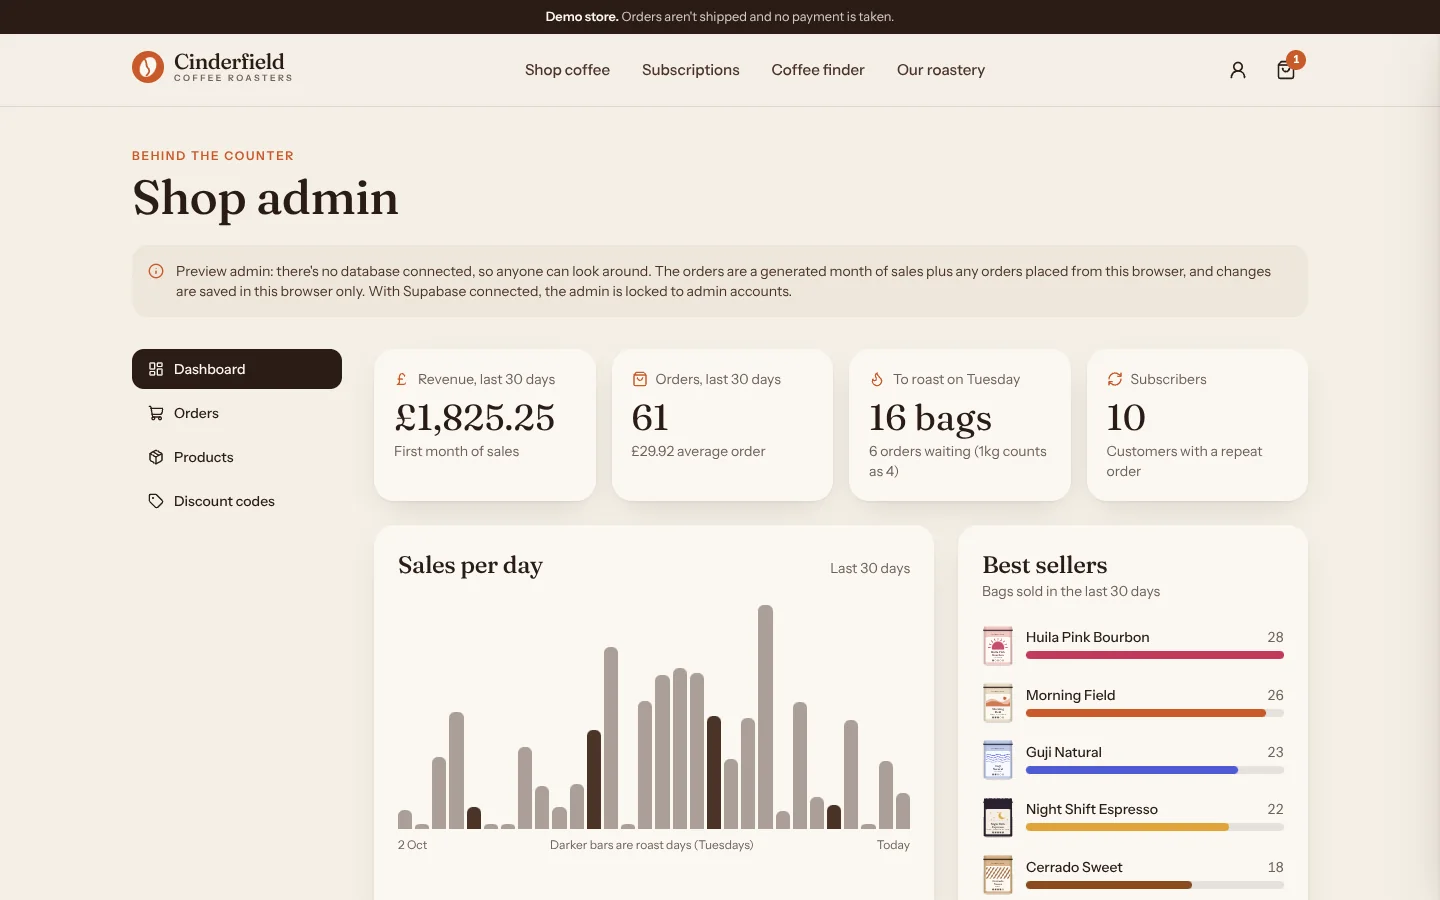
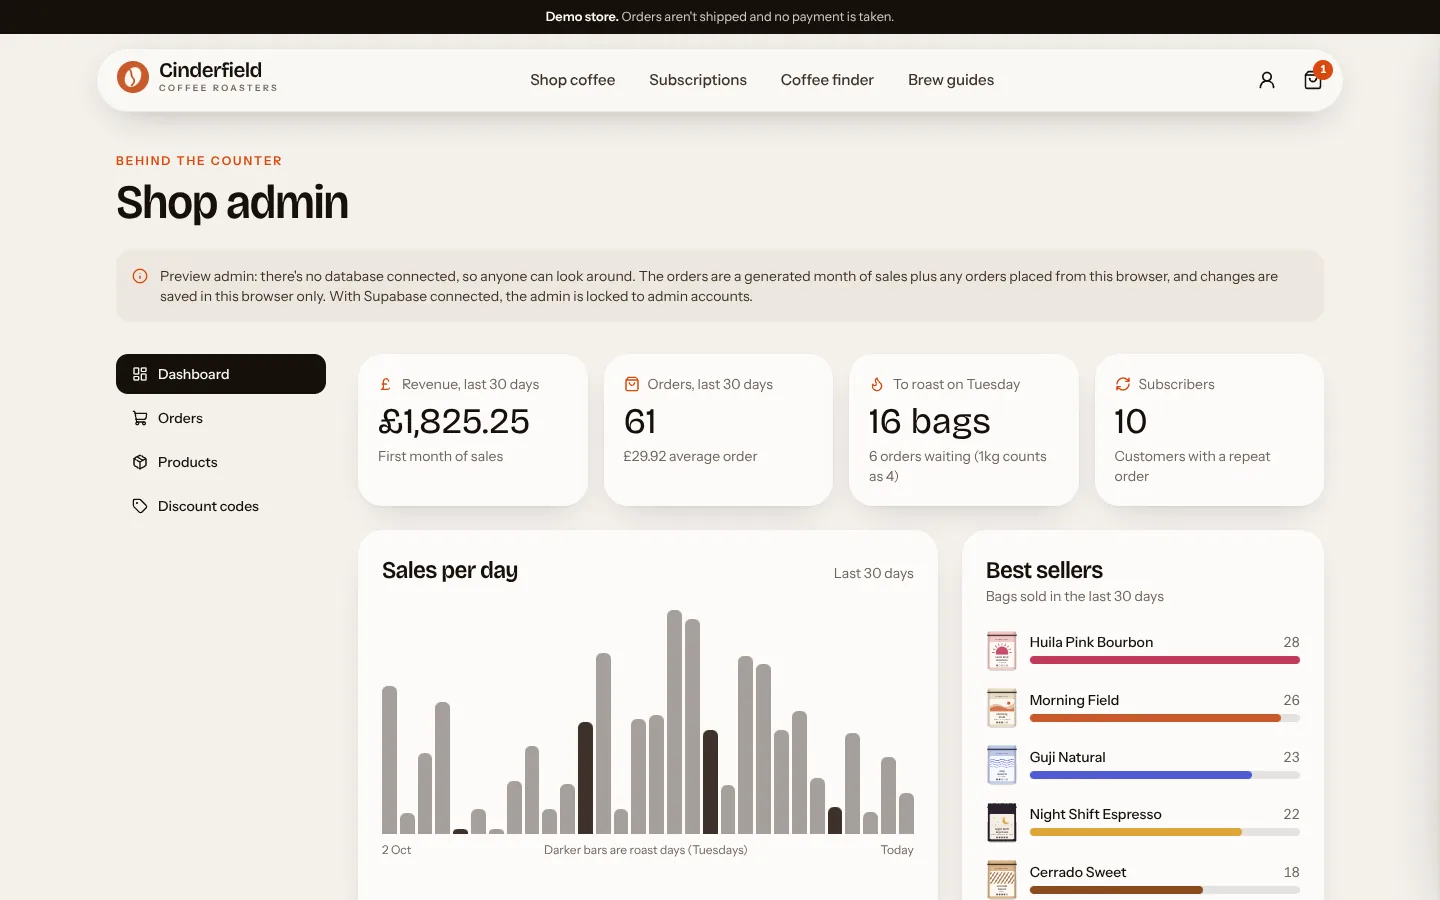
Update the README, screenshots and social preview

diff --git a/README.md b/README.md
@@ -13,13 +13,16 @@ A complete online shop for a small-batch coffee roaster: catalogue, bag, checkou
 **For customers**
 
 - Shop with search, filters (roast, type, flavour) and sorting. Filters live in the URL, so a filtered page can be shared or bookmarked.
-- Product pages with tasting notes, origin details, a brew recipe for that coffee, reviews and structured data for search engines.
+- A 3D home page: the week's coffees as bags you can spin with a finger or a mouse, among drifting beans and embers. Click a bag to open its page.
+- Product pages with a 3D bag to turn, tasting notes, origin details, a brew recipe for that coffee, reviews and structured data for search engines. On a phone, an "Add to bag" bar follows you down the page.
 - A slide-out bag that's saved between visits, shows how far you are from free delivery and syncs across tabs.
 - Discount codes: percentage off, fixed amount off, free delivery, with optional minimum spend. Try `WELCOME10`.
 - Subscriptions every 2 or 4 weeks at 10% off with free delivery, and a subscription builder that shows the price per delivery, per month and what it saves in a year.
 - A coffee finder quiz: four questions score every coffee in stock and explain why the match fits. Results have their own URL.
 - Brew guides with a coffee-to-water calculator and a "fix my coffee" section.
 - Customer accounts: sign up, sign in, forgot/reset password, change name and password, order history, and subscriptions with their next delivery date. "Update card or cancel" opens Stripe's customer portal.
+- Emails that look like the shop: an animated welcome for newsletter sign-ups (with one-click unsubscribe), an order confirmation with a picture of each bag, and matching templates for Supabase's account emails (confirm your email, reset password, sign-in link, change email, invite).
+- A 404 page with a coffee stirring itself, and an error page that offers to try again.
 
 **For the owner** (`/admin`)
 
@@ -36,7 +39,8 @@ A complete online shop for a small-batch coffee roaster: catalogue, bag, checkou
 - Every subscription renewal Stripe charges becomes a new order to roast, with stock taken off.
 - The database sets itself up: each build applies any new migrations and loads the starting catalogue into an empty shop.
 - Pages are prerendered and the catalogue is cached, then refreshed the moment an admin saves a change.
-- Accessible: real buttons and form labels, visible focus, a skip link, keyboard-friendly quiz and drawer, and no animation for people who've turned motion off.
+- Accessible: real buttons and form labels, visible focus, a skip link, keyboard-friendly quiz, drawer and menu, and no animation for people who've turned motion off.
+- The 3D is three.js through React Three Fiber, loaded after the page and only where it can run: phones and laptops get a lighter scene, it pauses when scrolled out of view, and anyone with reduced motion, data saver or no WebGL gets the same bags drawn flat, so nothing is ever missing.
 - Tests for pricing and discounts, the coffee finder, and every database security rule (run against real Postgres in memory with PGlite).
 
 ## Screenshots
@@ -53,7 +57,7 @@ A complete online shop for a small-batch coffee roaster: catalogue, bag, checkou
 
 ## Stack
 
-Next.js 16 (App Router, Cache Components) · React 19 · TypeScript · Tailwind CSS 4 · Supabase (Postgres, Auth, Row Level Security) · Stripe Checkout and webhooks · Vitest and PGlite · Vercel
+Next.js 16 (App Router, Cache Components) · React 19 · TypeScript · Tailwind CSS 4 · three.js with React Three Fiber · Supabase (Postgres, Auth, Row Level Security) · Stripe Checkout and webhooks · Resend · Vitest and PGlite · Vercel
 
 ## Running it
 
@@ -76,7 +80,8 @@ Open http://localhost:3000. With no keys, the shop runs on the catalogue in `src
 4. **Tell Supabase where the site lives.** In Supabase → Authentication → URL Configuration, set the Site URL to the shop's address and add `https://your-shop.com/**` to the redirect URLs, so confirmation and password-reset links come back to the shop.
 5. **Add the Stripe webhook** (recommended): in Stripe → Developers → Webhooks, add `https://your-shop.com/api/stripe/webhook` with the events `checkout.session.completed`, `checkout.session.async_payment_succeeded`, `checkout.session.expired` and `invoice.paid`, then save its signing secret as `STRIPE_WEBHOOK_SECRET` in Vercel. Orders go through without it, but subscription renewals need it.
 6. **Turn on Stripe's customer portal** (Stripe → Settings → Billing → Customer portal → Save), so customers can update their card or cancel.
-7. **Redeploy**, create your account on the site, and make it an admin in Supabase's SQL editor:
+7. **Set up the emails** (see [Emails](#emails) below).
+8. **Redeploy**, create your account on the site, and make it an admin in Supabase's SQL editor:
 
    ```sql
    update public.profiles set role = 'admin'
@@ -91,8 +96,28 @@ To try a payment, use the card `4242 4242 4242 4242` with any future date and an
 - Don't set `SEED_SAMPLE_REVIEWS`, so the shop starts with real reviews only.
 - Set `SHOP_EMAIL` to the shop's address and check the privacy and terms pages against the business.
 - Switch on Stripe's emails for successful payments (Stripe → Settings → Customer emails), so customers get a receipt.
-- Give Supabase your own email sender (Authentication → Emails → SMTP), since its built-in one is only meant for testing.
+- Give Supabase your own email sender (see [Emails](#emails)), since its built-in one only sends to the project's own team.
 - Add the live Stripe keys and a live webhook. The demo-store notice and the noindex tag go away on their own.
+
+## Emails
+
+There are two kinds, and both are designed to match the shop: a dark header with an animated pour, cream body, glowing ember button. They are table-based HTML so they hold up in Gmail, Outlook and Apple Mail, and the animation is a GIF, so it plays everywhere that shows images.
+
+**Account emails** are sent by Supabase. Paste each file from `supabase/templates` into Supabase → Authentication → Emails, with its subject:
+
+| Template | File | Subject |
+|---|---|---|
+| Confirm sign up | `confirmation.html` | Confirm your email for Cinderfield |
+| Reset password | `recovery.html` | Choose a new password |
+| Magic link | `magic-link.html` | Your sign-in link |
+| Change email address | `email-change.html` | Confirm your new email address |
+| Invite user | `invite.html` | You've been invited to Cinderfield |
+
+Supabase's built-in sender only delivers to the members of your Supabase team, so for real customers add your own under Authentication → Emails → SMTP Settings. With Resend that's host `smtp.resend.com`, port `465`, user `resend` and your API key as the password.
+
+**Shop emails** (newsletter welcome, order confirmation) are sent through [Resend](https://resend.com) when `RESEND_API_KEY` and `EMAIL_FROM` are set. Verify your domain in Resend first. The images load from the live site's `public/email` folder.
+
+To change the design, edit `src/emails/templates.ts` and run `npm run email:templates`. It rewrites `supabase/templates` and saves previews of every email to `email-previews/`, to open in a browser.
 
 ## Scripts
 
@@ -105,6 +130,7 @@ To try a payment, use the card `4242 4242 4242 4242` with any future date and an
 | `npm run lint` | ESLint |
 | `npm run typecheck` | TypeScript, without building |
 | `npm run db:seed-file` | Rebuild `supabase/seed.sql` (and the sample reviews) from `src/data` |
+| `npm run email:templates` | Rebuild the Supabase email templates and write email previews |
 
 ## Where things are
 
@@ -116,18 +142,22 @@ src/
     api/stripe/webhook/ confirms payments and records subscription renewals
     account/            sign in, details, subscriptions and orders
   components/           UI, including the cart, quiz and admin tables
+    three/              the 3D bags, beans and embers (three.js)
+  emails/               every email, as HTML built in code
   data/                 the demo catalogue, reviews and discount codes
   lib/
     pricing.ts          every price, discount and delivery rule, in one place
     checkout.ts         checks a bag against the catalogue and stock
     catalog.ts          reads products and reviews (cached), from Supabase or src/data
-    fulfil.ts           marks orders paid and turns renewals into orders
+    fulfil.ts           marks orders paid, emails the confirmation, turns renewals into orders
+    email.ts            sends through Resend and signs unsubscribe links
     finder.ts           the coffee finder's scoring
     browser-store.ts    local storage for the bag and demo data, without effects
   proxy.ts              keeps the Supabase session fresh
 scripts/migrate.mjs     sets up and updates the database on every build
 supabase/
   migrations/           tables, security rules and the stock function
+  templates/            the account emails, to paste into Supabase
   tests/                tests for every security rule, on an in-memory Postgres
 ```
 
@@ -136,13 +166,14 @@ supabase/
 - **Prices are in pence**, as integers, everywhere. No floating-point pennies.
 - **One pricing module** (`src/lib/pricing.ts`) is used by the bag, the checkout API and the admin, so the number a customer sees is the number they're charged.
 - **It runs with or without its services.** With no keys, the same components and pricing run on built-in data, so the shop can be previewed anywhere; Supabase and Stripe switch on as their keys appear.
-- **The bags are drawn in code** (SVG) instead of photographed. It keeps the demo light and lets a new coffee get its own bag with a few colours.
+- **The bags are drawn in code** instead of photographed: the same few colours and a pattern make the flat SVG bag and the label printed on the 3D one, so a new coffee gets its own bag in both without a photo shoot.
+- **Motion that's always optional.** Scroll reveals use CSS scroll-driven animations, and everything that moves, 3D included, stands still for people who've asked for less motion.
 
 ## Not built yet
 
-- Order confirmation and shipping emails from the shop itself (Stripe's receipts cover payment confirmation). They'd go through a service like Resend, from the same webhook.
+- Shipping emails ("your coffee is on its way") when an order is marked shipped in the admin. They'd use the same templates and Resend.
 - Gift subscriptions.
 
 ## Licence
 
-MIT. The fonts (Fraunces and Instrument Sans) are under the SIL Open Font License; see `src/fonts/OFL.txt`.
+MIT. The fonts (Bricolage Grotesque, Instrument Serif and Instrument Sans) are under the SIL Open Font License; see `src/fonts/OFL.txt`.
